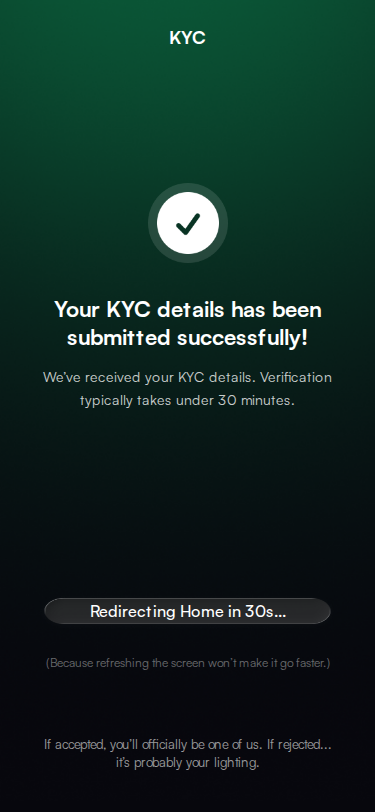
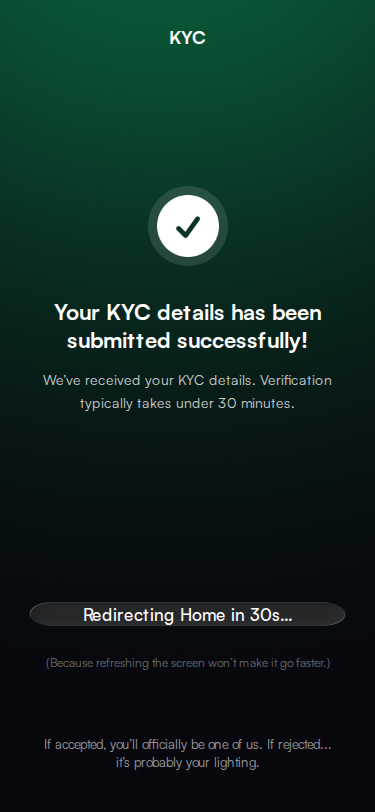
feat: Update Success Screen UI with custom button asset
- Updated `src/pages/SuccessScreen.tsx` to use `redirect-home-button.png` as the button background.
- Set explicit button dimensions to 361x48px.
- Styled button text with Satoshi Medium 17px.
- Renamed user uploaded asset to `src/assets/redirect-home-button.png`.
- Verified visual layout with Playwright screenshot.

diff --git a/src/pages/SuccessScreen.tsx b/src/pages/SuccessScreen.tsx
@@ -59,7 +59,7 @@ const SuccessScreen = () => {
         {/* Countdown Button */}
         <button
             onClick={() => navigate("/home")}
-            className="w-full h-[54px] rounded-full text-white text-[16px] font-medium transition-transform active:scale-95 flex items-center justify-center relative"
+            className="w-[361px] h-[48px] rounded-full text-white text-[17px] font-medium transition-transform active:scale-95 flex items-center justify-center relative"
         >
           <img
             src={redirectHomeButton}
